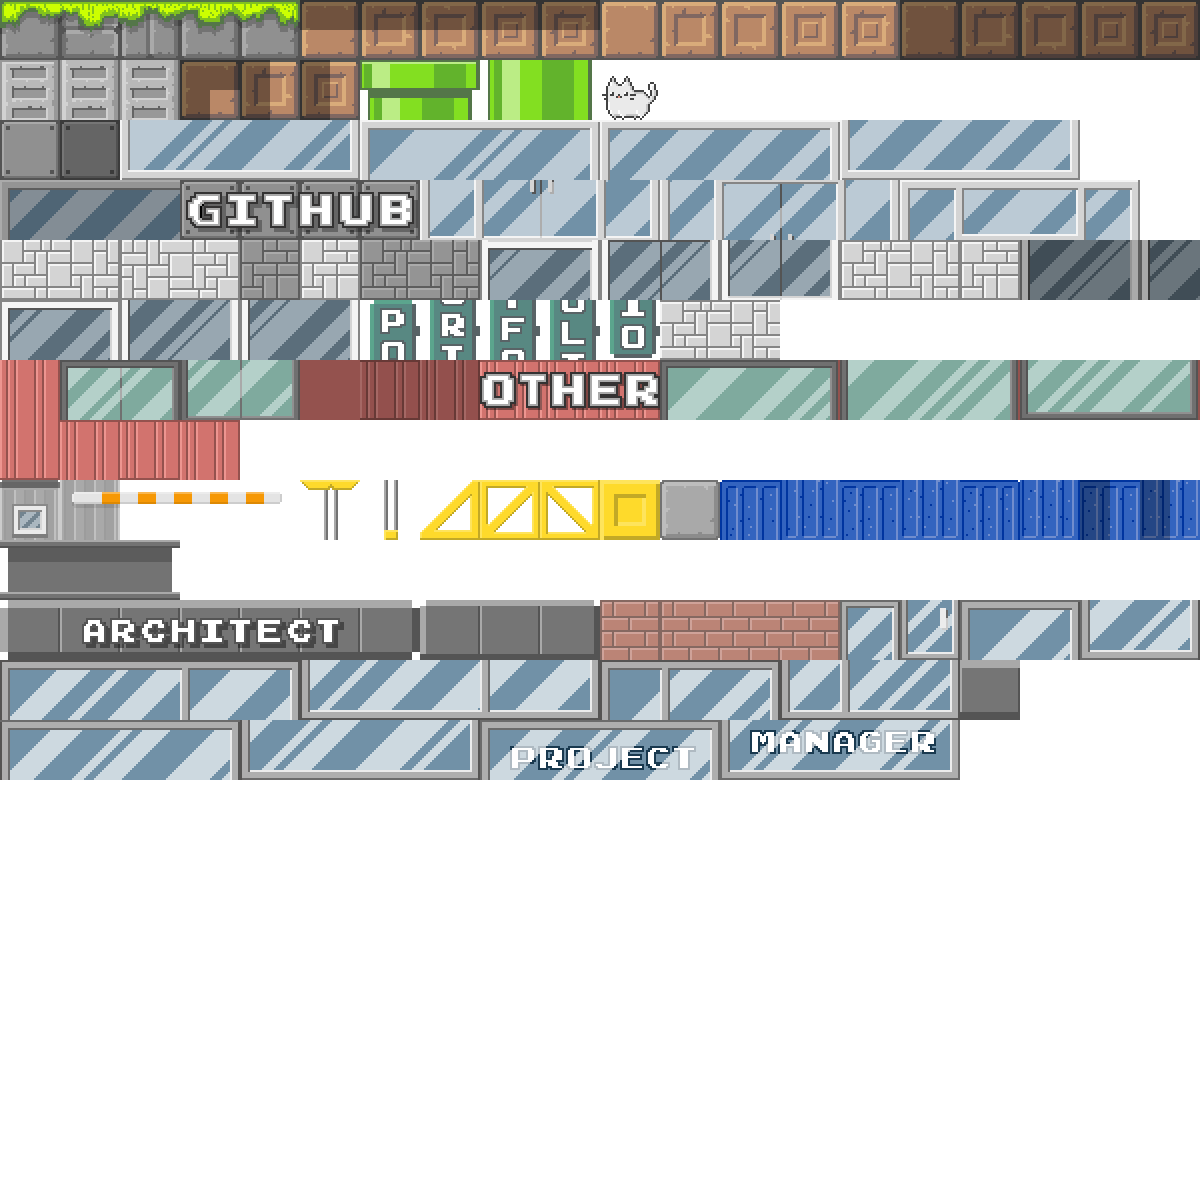
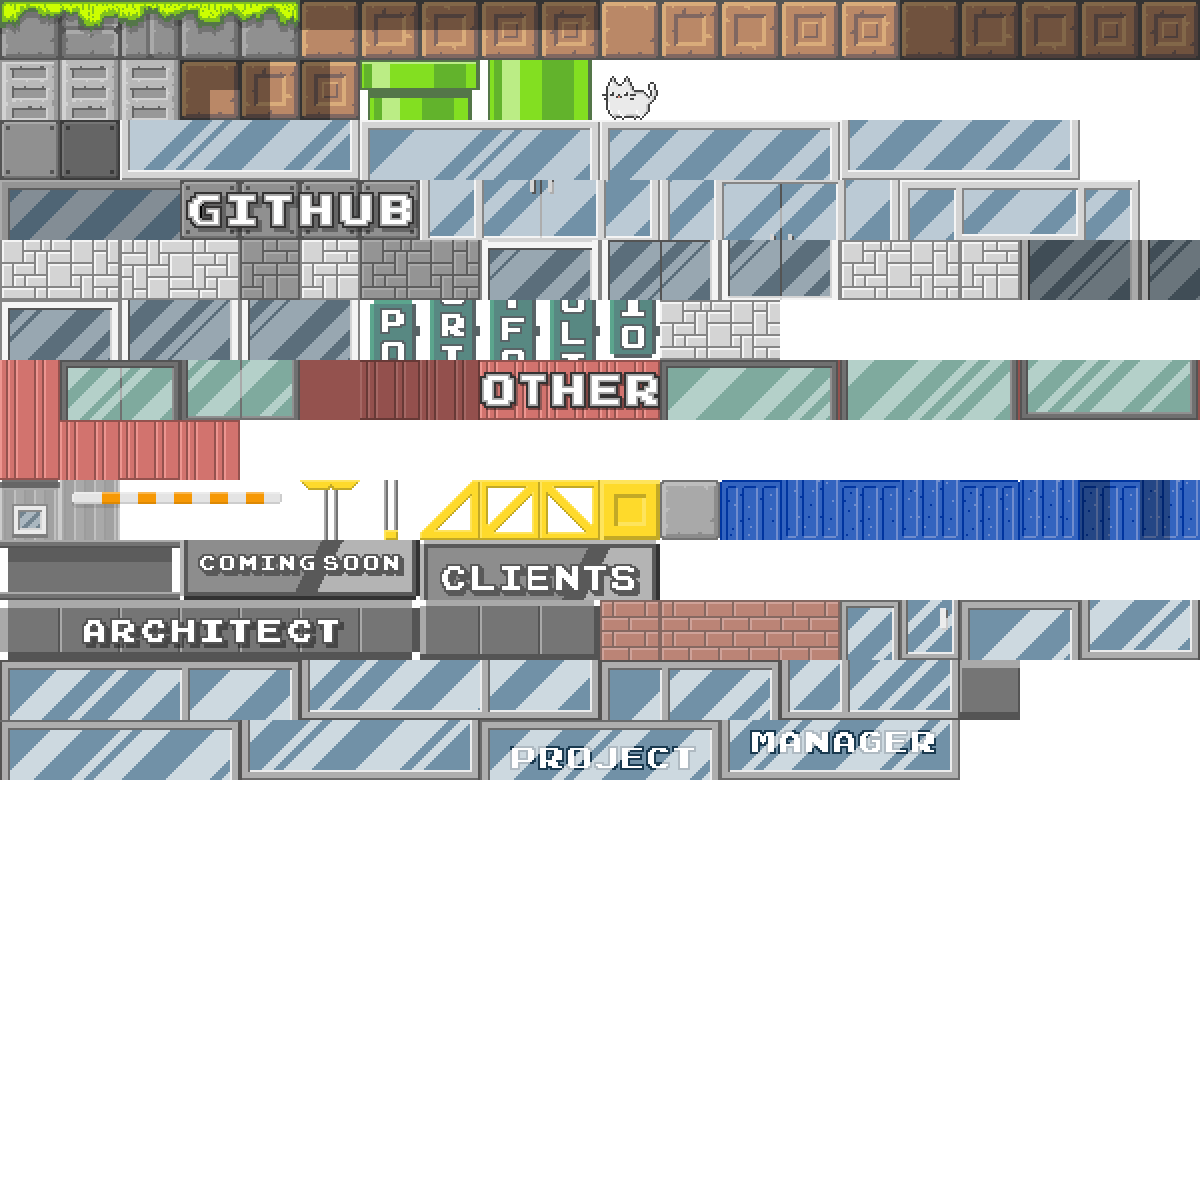
Added new animation

Changed region(s): [[0.1233, 0.4317, 0.555, 0.5242]]

diff --git a/js/script.js b/js/script.js
@@ -123,8 +123,8 @@ function init(){
         [0, 0, 0, 0, 0, 0, 0, 0, 0, 0, 0, 0, 0, 0, 23, 0, 0, 0, 0, 0, 0, 166, 0, 0, 0, 0, 0, 0, 170, 0, 0, 0, 0, 0, 0, 81, 82, 101, 102, 86, 41, 51, 52, 53, 54, 41, 0, 0, 0, 0, 0, 0, 0, 0, 0, 0, 0, 0, 0, 0],
         [0, 0, 0, 0, 0, 0, 0, 0, 0, 0, 0, 0, 0, 0, 23, 0, 0, 0, 0, 0, 0, 167, 0, 0, 0, 0, 0, 0, 169, 0, 0, 0, 0, 0, 0, 83, 84, 103, 104, 86, 41, 55, 56, 57, 58, 41, 0, 0, 0, 0, 0, 0, 0, 0, 0, 0, 0, 0, 0, 0],
         [0, 0, 0, 0, 0, 0, 0, 0, 0, 0, 0, 0, 0, 0, 22, 0, 0, 0, 0, 181, 182, 182, 182, 183, 0, 0, 0, 0, 170, 0, 0, 0, 0, 0, 0, 81, 82, 105, 106, 86, 41, 41, 41, 41, 41, 41, 142, 143, 143, 143, 144, 0, 0, 0, 0, 0, 0, 0, 0, 0],
-        [0, 0, 0, 0, 0, 0, 0, 0, 0, 0, 0, 0, 0, 0, 22, 0, 0, 0, 0, 0, 0, 0, 0, 0, 0, 0, 0, 0, 169, 0, 0, 0, 0, 0, 0, 83, 84, 103, 104, 86, 41, 47, 48, 49, 50, 41, 121, 132, 133, 134, 121, 0, 0, 0, 0, 0, 0, 0, 0, 0],
-        [0, 0, 0, 0, 0, 0, 0, 0, 0, 0, 0, 0, 0, 0, 23, 0, 0, 0, 0, 0, 0, 0, 0, 0, 0, 0, 0, 0, 170, 0, 0, 0, 0, 0, 0, 81, 82, 105, 106, 86, 41, 43, 44, 45, 46, 41, 121, 135, 136, 137, 121, 0, 0, 0, 0, 0, 0, 0, 0, 0],
+        [0, 0, 0, 0, 0, 0, 0, 0, 0, 0, 0, 0, 0, 0, 22, 0, 0, 0, 0, 0, 0, 0, 0, 0, 0, 0, 0, 0, 169, 0, 188, 189, 190, 191, 0, 83, 84, 103, 104, 86, 41, 47, 48, 49, 50, 41, 121, 132, 133, 134, 121, 0, 0, 0, 0, 0, 0, 0, 0, 0],
+        [0, 0, 0, 0, 0, 0, 0, 0, 0, 0, 0, 0, 0, 0, 23, 0, 0, 0, 0, 0, 0, 0, 0, 0, 0, 0, 0, 0, 170, 0, 184, 185, 186, 187, 0, 81, 82, 105, 106, 86, 41, 43, 44, 45, 46, 41, 121, 135, 136, 137, 121, 0, 0, 0, 0, 0, 0, 0, 0, 0],
         [0, 0, 0, 0, 0, 0, 0, 0, 0, 0, 0, 0, 173, 175, 22, 179, 175, 175, 175, 175, 175, 175, 177, 161, 0, 0, 0, 173, 175, 175, 175, 175, 175, 177, 0, 83, 84, 103, 104, 86, 41, 41, 41, 41, 41, 41, 121, 138, 139, 140, 121, 0, 0, 0, 0, 0, 0, 0, 0, 0],
         [0, 0, 0, 0, 0, 0, 0, 0, 0, 0, 0, 0, 174, 176, 23, 180, 176, 176, 176, 176, 176, 176, 178, 162, 163, 164, 165, 174, 176, 176, 176, 176, 176, 178, 0, 81, 82, 105, 106, 86, 41, 51, 52, 53, 54, 41, 121, 142, 142, 142, 121, 0, 0, 0, 0, -1, 0, 0, 0, 0],
         [0, 0, 0, 0, 0, 0, 0, 0, 0, 0, 1, 2, 3, 4, 3, 3, 2, 2, 3, 2, 4, 4, 3, 2, 2, 3, 3, 4, 4, 3, 4, 2, 2, 3, 2, 4, 3, 2, 2, 4, 4, 3, 3, 2, 2, 2, 3, 4, 2, 4, 4, 5, 21, 1, 5, 0, 0, 0, 0, 0],
@@ -396,12 +396,14 @@ function init(){
             textPlaceholder = 'Autocad, Archicad, 3DS MAX, Photoshop, Illustrator, Nikon, Aperture, Bokeh and etc. Lots of fancy words, huh?';
             displayText('other');
         }else if(this.playerCol >= 21 && this.playerCol < 28 && this.playerRow == 24){
-            textPlaceholder = 'Still under construction? I\'ll have to come back later!'
+            textPlaceholder = 'Sorry. We are still under construction. Please, come back later!'
+            document.getElementById('textBoxImgPortrait').classList.add('hidden');
+            document.getElementById('textBoxImgWorker').classList.remove('hidden');
             displayText('clients');
         }else if(this.playerCol >= 36 && this.playerCol < 50 && this.playerRow == 24){
             displayText('jokes');
         }else if(this.playerCol >= 8 && this.playerCol <= 16 && this.playerRow == 6 || this.playerRow == 5){
-            textPlaceholder = 'Whoever made this definitely deserves a cookie. I should give him a call.';
+            textPlaceholder = 'Whoever made this definitely deserves a cookie. Maybe I should give him a call and see what is he up to?.';
             displayText('contact');
         }else if(this.playerCol >= 17 && this.playerCol < 23 && this.playerRow == 19){
             textPlaceholder = 'Wow! I can see my house from here!';
@@ -416,6 +418,7 @@ function init(){
             displayText('mario');
         }else{
             document.getElementById('textBoxImgCat').classList.add('hidden');
+            document.getElementById('textBoxImgWorker').classList.add('hidden');
             document.getElementById('textBoxImgPortrait').classList.remove('hidden');
 
             // HIDING TEXTBOX

diff --git a/index.html b/index.html
@@ -58,8 +58,9 @@
             <div id="textBoxContainer" class="hidden">
                 <div id="textBox">
                     <div class="textBoxImg">
-                        <img class="hidden" id="textBoxImgCat" src="img/game/animation-cat.gif" alt="Cat potrait">
-                        <img id="textBoxImgPortrait" src="img/game/animation-portrait.gif" alt="My portrai">
+                        <img class="hidden" id="textBoxImgCat" src="img/game/animation-cat.gif" alt="Cat">
+                        <img class="hidden" id="textBoxImgWorker" src="img/game/animation-worker.gif" alt="Construction worker">
+                        <img id="textBoxImgPortrait" src="img/game/animation-portrait.gif" alt="Autoportrait">
                     </div>
                     <div class="textBoxText">
                         <!-- PLACEHOLDER FOR DISPLAYING TEXT -->
@@ -114,13 +115,13 @@
                     <h2>About me</h2>
 
                     <h3>Past</h3>
-                    <p>Prosciutto sirloin hamburger andouille tongue chicken turducken drumstick jowl. Buffalo t-bone meatball capicola bacon tail ground round meatloaf pork loin jowl alcatra pig. Pork chop t-bone strip steak pork loin boudin tenderloin flank, cupim buffalo sausage. Cow hamburger pork loin, shoulder tail cupim porchetta venison corned beef strip steak.</p>
+                    <p>Architect and project manager by education. I have worked on multiple real estate projects of many different scales in many different roles - from architect to project manager on both contractors and clients side.</p>
 
                     <h3>Present</h3>
-                    <p>Bacon ipsum dolor amet biltong leberkas turducken, ham prosciutto beef t-bone spare ribs tail pork brisket swine ribeye. Biltong pork chop frankfurter, prosciutto meatball swine t-bone ham shank buffalo jowl. Ground round kielbasa andouille pancetta rump turducken beef pork belly tongue pork loin salami pork short ribs leberkas burgdoggen. Jowl short ribs doner t-bone, kevin meatball pork chop alcatra bresaola chicken. Venison shank buffalo porchetta picanha ribeye.</p>
+                    <p>Recently I have finished 3W Academy Lithuania web developer course, during which I have tried several front and backend technologies and I have found that Javascript "suits" me quite well. Because of this I studied it on my own and made (still making more) several smaller projects. This does not mean that I am only interested in Javascript.</p>
 
                     <h3>Future</h3>
-                    <p>Prosciutto sirloin hamburger andouille tongue chicken turducken drumstick jowl. Buffalo t-bone meatball capicola bacon tail ground round meatloaf pork loin jowl alcatra pig. Pork chop t-bone strip steak pork loin boudin tenderloin flank, cupim buffalo sausage. Cow hamburger pork loin, shoulder tail cupim porchetta venison corned beef strip steak.</p>
+                    <p>Development process interestes me as a whole so I would like to find a position where I would be able to work with new products, maintain existing ones or event software development when I gain enough experience.</p>
                 </div>
                 <!-- END ABOUT -->
 
